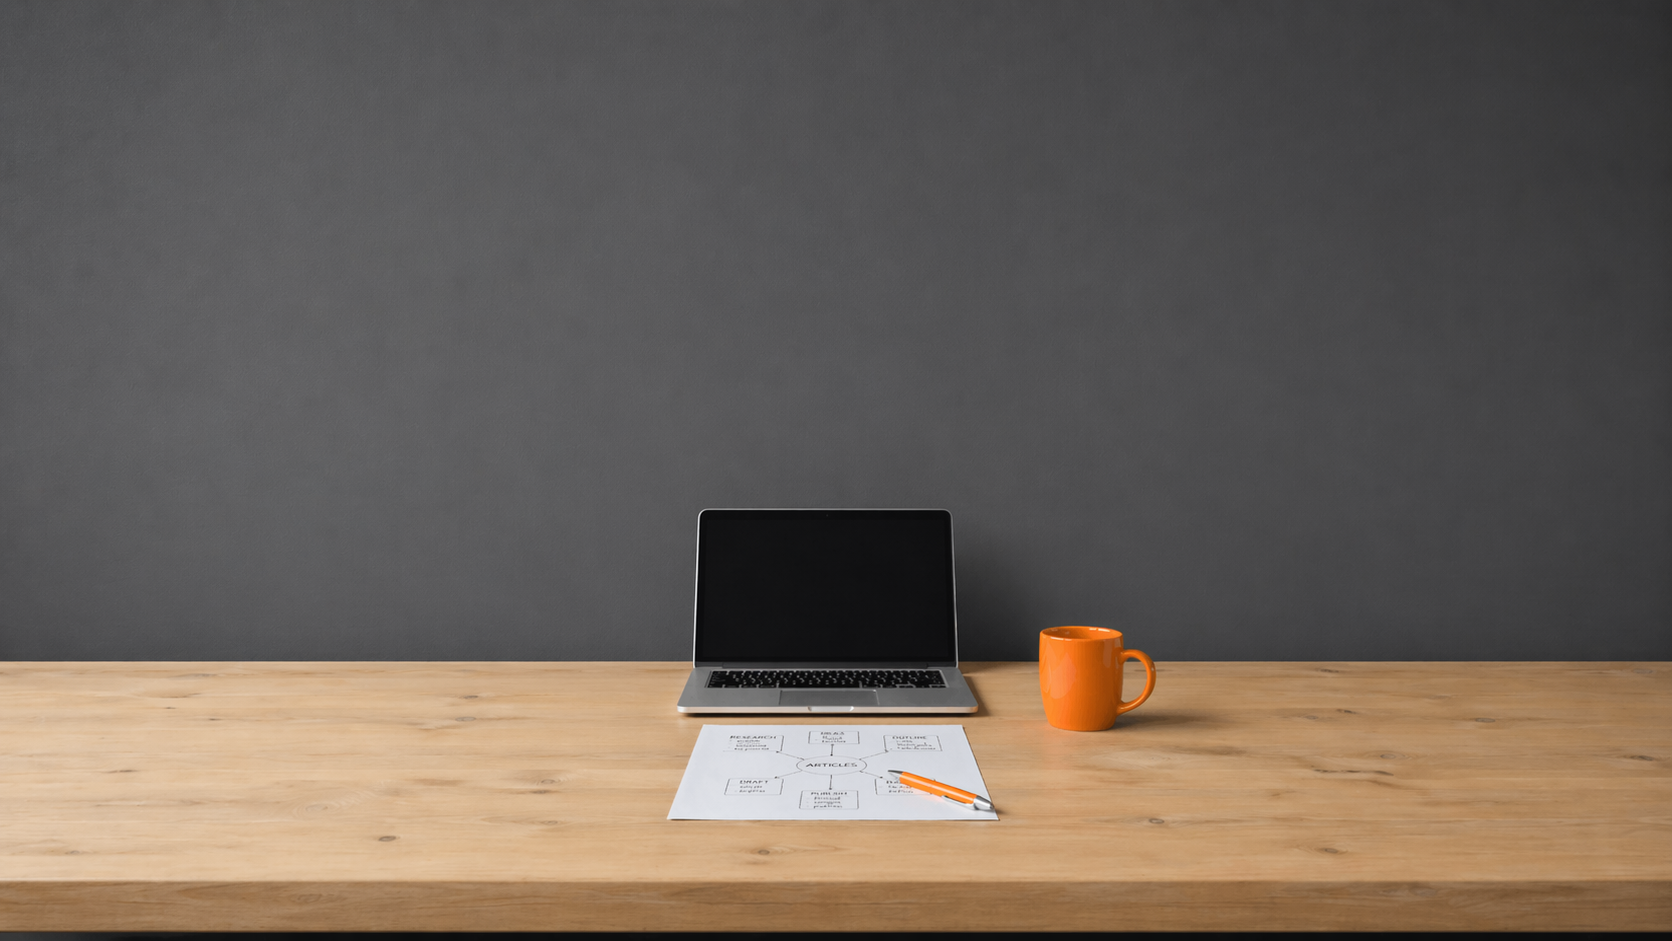
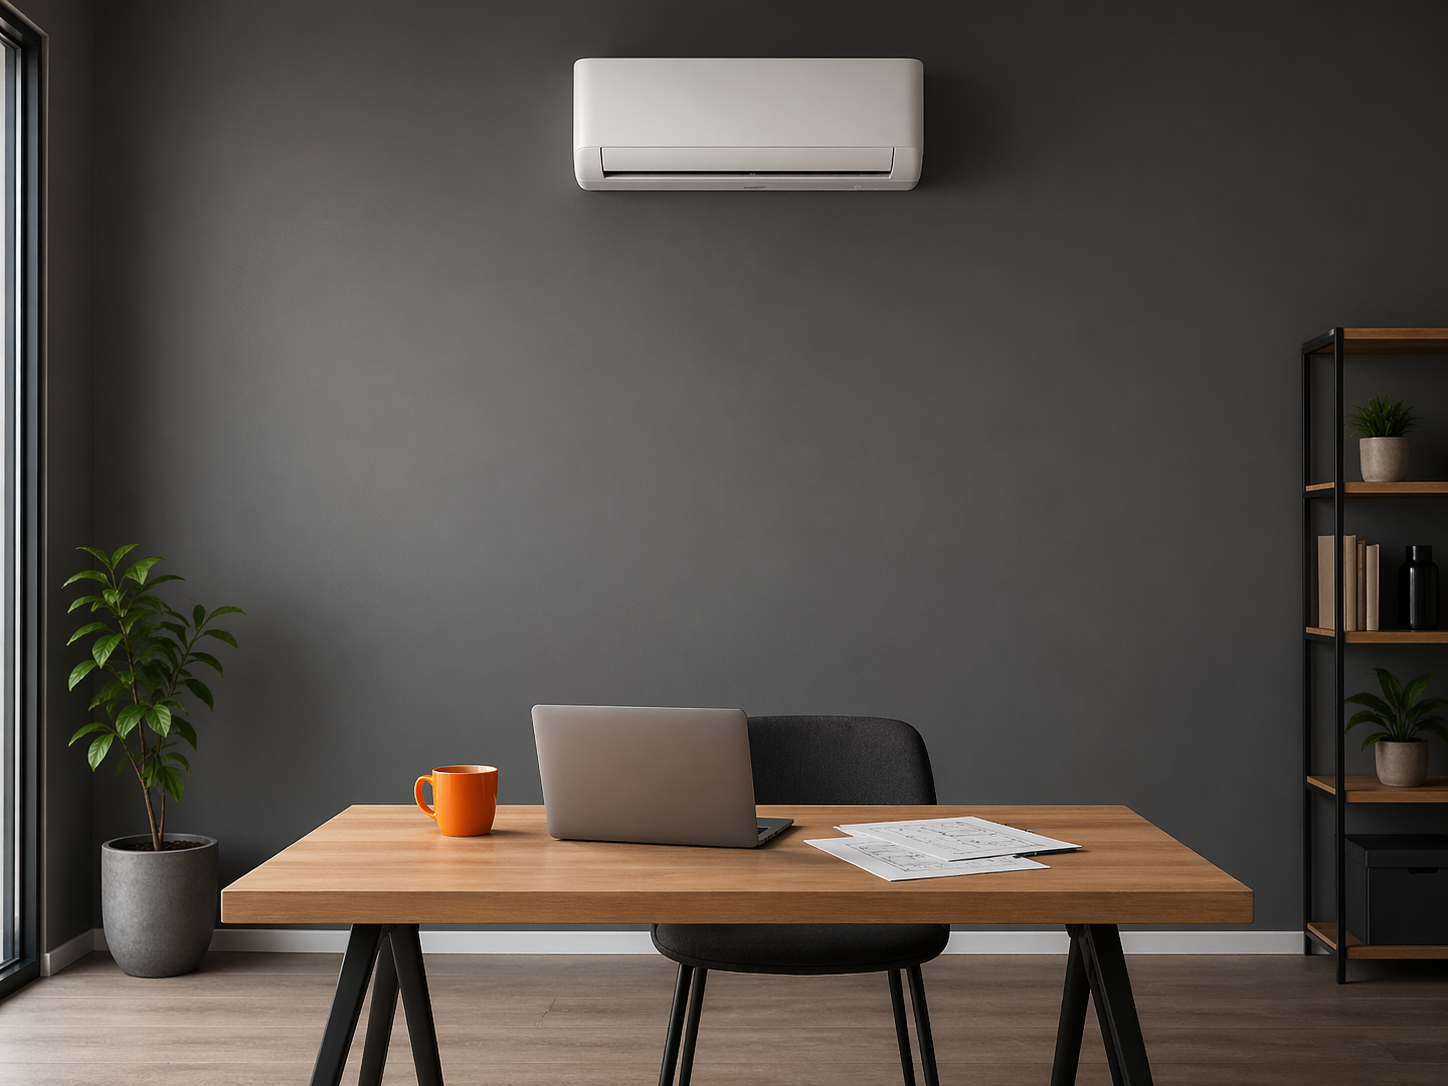
fix main page

diff --git a/js/page.js b/js/page.js
@@ -22,6 +22,80 @@
   toggleBackToTopButton();
 }
 
+function initAnchorScroll() {
+  const HEADER_GAP = 24;
+
+  function getScrollTarget(element) {
+    if (!(element instanceof HTMLElement)) return null;
+    if (element.id === "top") return element;
+
+    return element.closest("section[id]") || element;
+  }
+
+  function getHeaderOffset() {
+    const header = document.querySelector(".site-header");
+    if (!(header instanceof HTMLElement)) return HEADER_GAP;
+
+    return Math.ceil(header.getBoundingClientRect().height) + HEADER_GAP;
+  }
+
+  function getElementTop(element) {
+    return element.getBoundingClientRect().top + window.scrollY;
+  }
+
+  function scrollToHash(hash, behavior = "smooth") {
+    if (!hash || hash === "#") return false;
+
+    const id = decodeURIComponent(hash.slice(1));
+    const element = document.getElementById(id);
+    const target = getScrollTarget(element);
+
+    if (!(target instanceof HTMLElement)) {
+      return false;
+    }
+
+    const top = target.id === "top" ? 0 : Math.max(0, getElementTop(target) - getHeaderOffset());
+
+    window.scrollTo({
+      top,
+      behavior,
+    });
+
+    return true;
+  }
+
+  document.addEventListener("click", (event) => {
+    const link = event.target instanceof Element ? event.target.closest("a[href*='#']") : null;
+    if (!(link instanceof HTMLAnchorElement)) return;
+
+    const url = new URL(link.href, window.location.href);
+    const isSamePage =
+      url.origin === window.location.origin &&
+      url.pathname === window.location.pathname &&
+      url.search === window.location.search;
+
+    if (!isSamePage || !url.hash) return;
+
+    event.preventDefault();
+
+    if (scrollToHash(url.hash)) {
+      window.history.pushState(null, "", url.hash);
+    }
+  });
+
+  if (window.location.hash) {
+    const adjustInitialHash = () => scrollToHash(window.location.hash, "auto");
+
+    requestAnimationFrame(adjustInitialHash);
+    window.addEventListener("load", adjustInitialHash, { once: true });
+    window.setTimeout(adjustInitialHash, 120);
+  }
+
+  window.addEventListener("hashchange", () => {
+    scrollToHash(window.location.hash, "auto");
+  });
+}
+
 function initAcCalculator() {
   const form = document.querySelector("[data-ac-calculator]");
   const result = document.querySelector("[data-ac-result]");

diff --git a/css/responsive.css b/css/responsive.css
@@ -32,6 +32,26 @@
     gap: 16px;
   }
 
+  .trusted-card--text {
+    padding: 22px 22px 20px;
+  }
+
+  .trusted-card__number {
+    margin-bottom: 10px;
+    font-size: clamp(2.35rem, 4.4vw, 3.7rem);
+  }
+
+  .trusted-card__title {
+    font-size: 1rem;
+    line-height: 1.2;
+  }
+
+  .trusted-card__text {
+    margin-top: 10px;
+    font-size: 0.86rem;
+    line-height: 1.48;
+  }
+
   .works {
     padding: 70px 0 78px;
   }
@@ -208,6 +228,10 @@
   }
 
   .services-prices__secondary-actions {
+    width: 100%;
+  }
+
+  .services-prices__button {
     width: 100%;
   }
 
@@ -643,8 +667,8 @@
     width: 100%;
     max-width: 100%;
     min-width: 0;
-    height: auto;
-    min-height: 220px;
+    height: clamp(260px, 50vw, 340px);
+    min-height: 0;
     border-radius: 18px;
   }
 
@@ -652,8 +676,8 @@
     width: 100%;
     max-width: 100%;
     min-width: 0;
-    min-height: 220px;
-    aspect-ratio: 16 / 11;
+    min-height: 0;
+    aspect-ratio: auto;
   }
 
   .services-tile--image .services-tile__image {
@@ -777,8 +801,9 @@
   }
 
   .trusted-card--text {
-    height: 248px;
-    padding: 20px 18px 18px;
+    height: auto;
+    min-height: 280px;
+    padding: 30px 22px;
   }
 
   .trusted-card__logo-box {
@@ -806,17 +831,19 @@
   }
 
   .trusted-card__number {
-    font-size: 3rem;
+    margin-bottom: 10px;
+    font-size: 2.55rem;
   }
 
   .trusted-card__title {
-    font-size: 1.26rem;
-    line-height: 1.2;
+    font-size: 1.05rem;
+    line-height: 1.22;
   }
 
   .trusted-card__text {
-    font-size: 1.1rem;
-    line-height: 1.6;
+    margin-top: 14px;
+    font-size: 0.96rem;
+    line-height: 1.52;
   }
 
   .works {
@@ -1434,6 +1461,10 @@
   .services-page-hero__image-wrap {
     min-height: 320px;
   }
+
+  .quick-link-card--articles .quick-link-card__image {
+    object-position: center 72%;
+  }
 }
 
 @media (max-width: 760px) {
@@ -1521,7 +1552,8 @@
   }
 
   .quick-link-card--articles .quick-link-card__image {
-    --quick-link-image-offset-y: 8px;
+    --quick-link-image-offset-y: 0px;
+    object-position: center 74%;
   }
 
   .quick-link-card__content {
@@ -1644,7 +1676,8 @@
   }
 
   .quick-link-card--articles .quick-link-card__image {
-    --quick-link-image-offset-y: 6px;
+    --quick-link-image-offset-y: 0px;
+    object-position: center 76%;
   }
 
   .quick-link-card__content {

diff --git a/js/slider.js b/js/slider.js
@@ -41,6 +41,11 @@
   const MAIN_ANIMATION_DURATION = 320;
   const SIDE_ANIMATION_DURATION = 220;
   const EASING = "cubic-bezier(0.22, 1, 0.36, 1)";
+  const COMPACT_ANIMATION_QUERY = window.matchMedia("(max-width: 1180px)");
+
+  function getAnimationDistance(distance) {
+    return COMPACT_ANIMATION_QUERY.matches ? distance / 2 : distance;
+  }
 
   function getSafeIndex(index) {
     const total = items.length;
@@ -111,7 +116,7 @@
   }
 
   function animateMainOut(direction) {
-    const offset = direction === "next" ? -36 : 36;
+    const offset = getAnimationDistance(direction === "next" ? -36 : 36);
 
     return mainSlide.animate(
       [
@@ -127,7 +132,7 @@
   }
 
   function animateMainIn(direction) {
-    const offset = direction === "next" ? 36 : -36;
+    const offset = getAnimationDistance(direction === "next" ? 36 : -36);
 
     return mainSlide.animate(
       [
@@ -143,7 +148,7 @@
   }
 
   function animateSidePreview(slide, direction) {
-    const offset = direction === "next" ? 18 : -18;
+    const offset = getAnimationDistance(direction === "next" ? 18 : -18);
 
     return slide.animate(
       [

diff --git a/shop.html b/shop.html
@@ -119,7 +119,7 @@
         </div>
         <div class="page-hero__media">
           <div class="page-hero__image-wrap">
-            <img class="page-hero__image" src="./assets/images/quick-link-shop.png" alt="Подбор кондиционеров" />
+            <img class="page-hero__image" src="./assets/images/hero-shop.png" alt="Подбор кондиционеров" />
           </div>
         </div>
       </div>

diff --git a/js/app.js b/js/app.js
@@ -6,4 +6,5 @@ document.addEventListener("DOMContentLoaded", () => {
   initCouponModal();
   initAcCalculator();
   initBackToTop();
+  initAnchorScroll();
 });